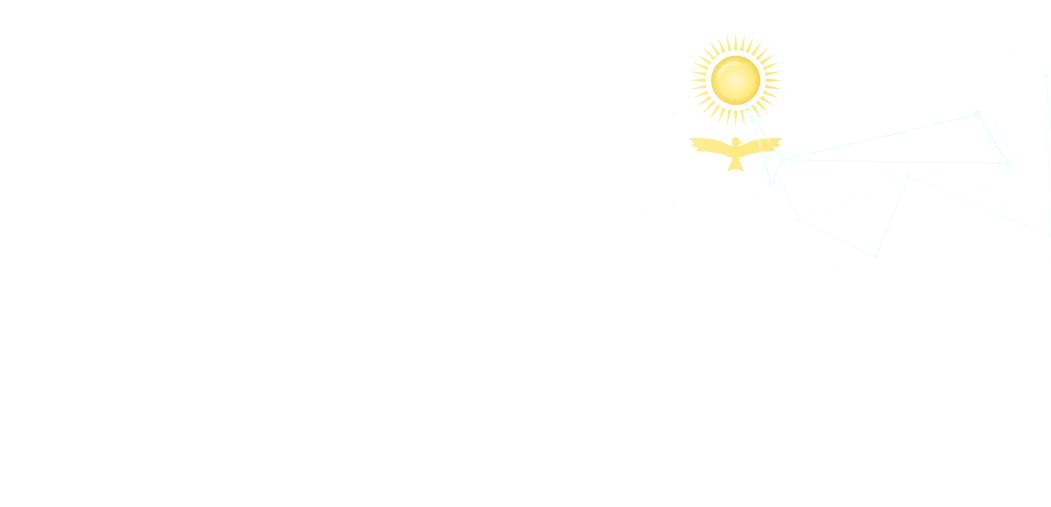
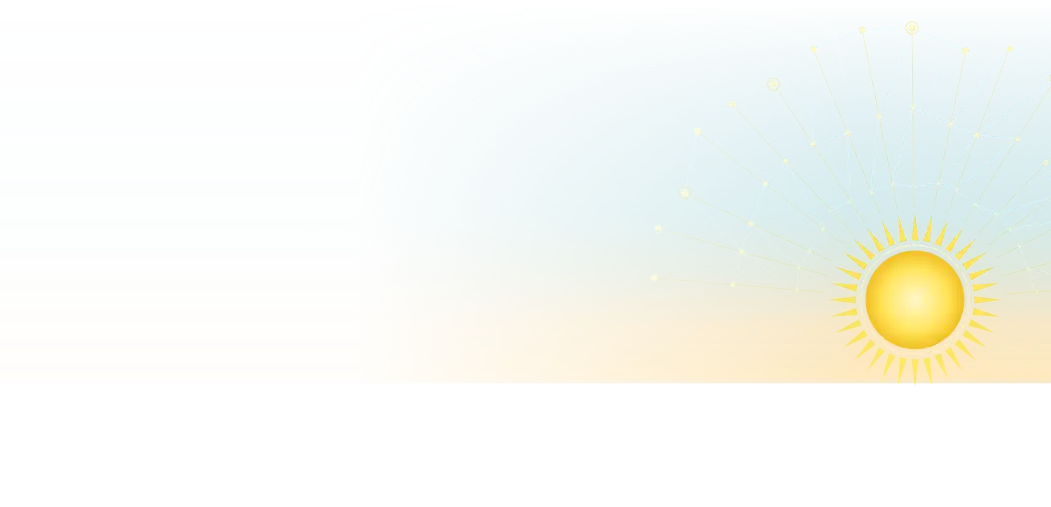
Club lanyards, round 16: the badge bands' marks without a box, Web3 rethought, Zhyly Zhurek richer
The badge band's mark showed a square (owner, on Literature): the mark's img carries the look's class too and wore the
card's ground as a box. The seven grounds are scoped to .sc now (every one of the seven had it, KNL's too). Literature's
logo and turtle re-cut by their paper's colour everywhere (the ring's inside was kept before), lifted off the shelves
by a feathered paper glow. Web3 rethought the way Geology and KMA are drawn (one palette, layered land, engraved line,
one hero): the flag's sun rising over the steppe's strata, its rays running on into a network across the sky, the
eagle near. Zhyly Zhurek: the window's view a town with lit windows and birds going home, the glass's reflections, a
garland of heart lights, a knitted runner under the cups. Generator: .claude/reports/club-lanyards/round16/gen/gen-r16.py.

Changed region(s): [[0.4872, 0.0888, 1.0, 0.7692], [0.8525, 0.0296, 0.883, 0.0592]]

diff --git a/web/src/ui/ClubScene.svelte b/web/src/ui/ClubScene.svelte
@@ -147,7 +147,9 @@
          its own place (the kobyz at the back, the dombra before it, the sybyzgy on the boards). Web3: three blocks
          chained in gold under the flag's sun on the steppe at dusk. Round 15: KNL's car on the badge's band too; Tumar's kobyz
          upright on the left, the dombra on the right; Web3 back to round 13's scene, richer (far blocks, the top block's
-         links to the network); Zhyly Zhurek back to the warm window, two cups of tea whose steam meets in one heart. The badge's band: the far and mid
+         links to the network); Zhyly Zhurek back to the warm window, two cups of tea whose steam meets in one heart. Round 16: Web3 rethought: the flag's sun rising over
+         the steppe's engraved strata, its rays running on into a network, the eagle near; Zhyly Zhurek's view a town with
+         lit windows, a garland of heart lights, a knitted runner. The badge's band: the far and mid
          layers, their mark on top -->
     {#if wide}<img class="l z far" src={L(SCN[look] + '-far')} alt="" /><img class="l" src={L(SCN[look] + '-mid')} alt="" /><img class="l z near" src={L(SCN[look] + '-near')} alt="" />
     {:else}<img class="l z far" src={L(SCN[look] + '-far')} alt="" /><img class="l" src={L(SCN[look] + '-mid')} alt="" />{#if look === 'knlknolimits'}<img class="l" src={L('knl-near')} alt="" />{/if}<img class="word bw {look}" src={MARK[look]} alt="" />{/if}
@@ -360,19 +362,20 @@
   .mgw { top: 24px; height: 62px; }
   .kbtumag .gloss { background: radial-gradient(130% 70% at 30% -18%, rgba(255, 255, 255, 0.35), transparent 65%); box-shadow: inset 0 1px 0 rgba(255, 255, 255, 0.7), inset 0 0 0 1px rgba(62, 10, 18, 0.12); }
 
-  /* ---- round 11: the seven's grounds under their scenes; their marks on the band ---- */
-  .enactuskbtu { background: radial-gradient(70% 90% at 100% 0%, rgba(80, 100, 230, 0.35), transparent 65%), linear-gradient(160deg, rgb(18, 26, 110), rgb(10, 15, 85) 55%, rgb(4, 7, 46)); }
-  .caseclubkbtu { background: radial-gradient(70% 90% at 100% 0%, rgba(120, 140, 230, 0.28), transparent 65%), linear-gradient(160deg, rgb(28, 39, 102), rgb(17, 26, 75) 55%, rgb(8, 13, 41)); }
-  .knlknolimits { background: linear-gradient(165deg, rgb(14, 36, 96), rgb(7, 26, 74) 55%, rgb(2, 10, 34)); }
-  .literatureclub { background: radial-gradient(70% 90% at 100% 0%, rgba(255, 252, 246, 0.8), transparent 65%), linear-gradient(160deg, rgb(243, 237, 229), rgb(237, 230, 220) 55%, rgb(226, 216, 202)); }
-  .tumarorchestrakbtu { background: radial-gradient(70% 90% at 100% 0%, rgba(230, 194, 122, 0.2), transparent 65%), linear-gradient(160deg, rgb(20, 56, 143), rgb(11, 36, 112) 55%, rgb(4, 17, 58)); }
-  .web { background: radial-gradient(60% 80% at 100% 0%, rgba(255, 228, 92, 0.22), transparent 65%), linear-gradient(160deg, rgb(74, 163, 186), rgb(42, 127, 151) 55%, rgb(15, 70, 86)); }
-  .zhylyzhurekkbtu { background: radial-gradient(70% 90% at 100% 0%, rgba(255, 255, 255, 0.6), transparent 65%), linear-gradient(160deg, rgb(251, 239, 234), rgb(246, 226, 220) 55%, rgb(237, 203, 196)); }
+  /* ---- round 11: the seven's grounds under their scenes; their marks on the band. Round 16: the grounds scoped to .sc:
+     the mark's img carries the look's class too and wore the ground as a box on the badge's band ---- */
+  .sc.enactuskbtu { background: radial-gradient(70% 90% at 100% 0%, rgba(80, 100, 230, 0.35), transparent 65%), linear-gradient(160deg, rgb(18, 26, 110), rgb(10, 15, 85) 55%, rgb(4, 7, 46)); }
+  .sc.caseclubkbtu { background: radial-gradient(70% 90% at 100% 0%, rgba(120, 140, 230, 0.28), transparent 65%), linear-gradient(160deg, rgb(28, 39, 102), rgb(17, 26, 75) 55%, rgb(8, 13, 41)); }
+  .sc.knlknolimits { background: linear-gradient(165deg, rgb(14, 36, 96), rgb(7, 26, 74) 55%, rgb(2, 10, 34)); }
+  .sc.literatureclub { background: radial-gradient(70% 90% at 100% 0%, rgba(255, 252, 246, 0.8), transparent 65%), linear-gradient(160deg, rgb(243, 237, 229), rgb(237, 230, 220) 55%, rgb(226, 216, 202)); }
+  .sc.tumarorchestrakbtu { background: radial-gradient(70% 90% at 100% 0%, rgba(230, 194, 122, 0.2), transparent 65%), linear-gradient(160deg, rgb(20, 56, 143), rgb(11, 36, 112) 55%, rgb(4, 17, 58)); }
+  .sc.web { background: radial-gradient(60% 80% at 100% 0%, rgba(255, 228, 92, 0.22), transparent 65%), linear-gradient(160deg, rgb(74, 163, 186), rgb(42, 127, 151) 55%, rgb(15, 70, 86)); }
+  .sc.zhylyzhurekkbtu { background: radial-gradient(70% 90% at 100% 0%, rgba(255, 255, 255, 0.6), transparent 65%), linear-gradient(160deg, rgb(251, 239, 234), rgb(246, 226, 220) 55%, rgb(237, 203, 196)); }
   .bw { filter: drop-shadow(0 4px 12px rgba(0, 0, 0, 0.35)); }
   .bw.enactuskbtu { top: 30px; height: 50px; }
   .bw.caseclubkbtu { top: 16px; height: 90px; }
   .bw.knlknolimits { top: 8px; height: 58px; } /* round 15: over the car on the band */
-  .bw.literatureclub { top: 14px; height: 100px; filter: none; }
+  .bw.literatureclub { top: 14px; height: 100px; filter: drop-shadow(0 0 3px rgba(246, 241, 233, 0.95)) drop-shadow(0 0 8px rgba(246, 241, 233, 0.9)); } /* round 16: lifted off the shelves by a feathered paper glow */
   .bw.tumarorchestrakbtu, .bw.web { top: 22px; height: 76px; }
   .bw.zhylyzhurekkbtu { top: 12px; height: 96px; filter: drop-shadow(0 4px 12px rgba(120, 40, 60, 0.25)); }
   .literatureclub .gloss, .zhylyzhurekkbtu .gloss { background: radial-gradient(130% 70% at 30% -18%, rgba(255, 255, 255, 0.35), transparent 65%); box-shadow: inset 0 1px 0 rgba(255, 255, 255, 0.7), inset 0 0 0 1px rgba(107, 31, 31, 0.12); }
